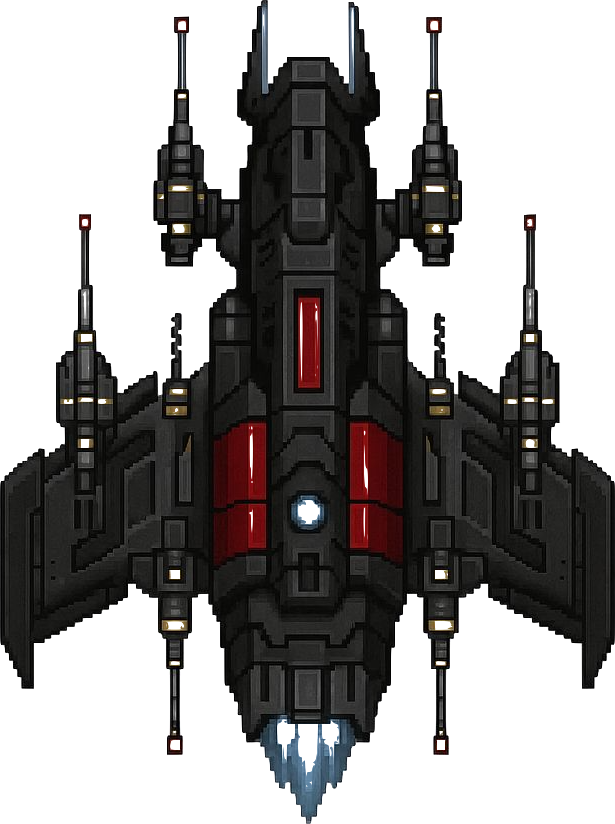
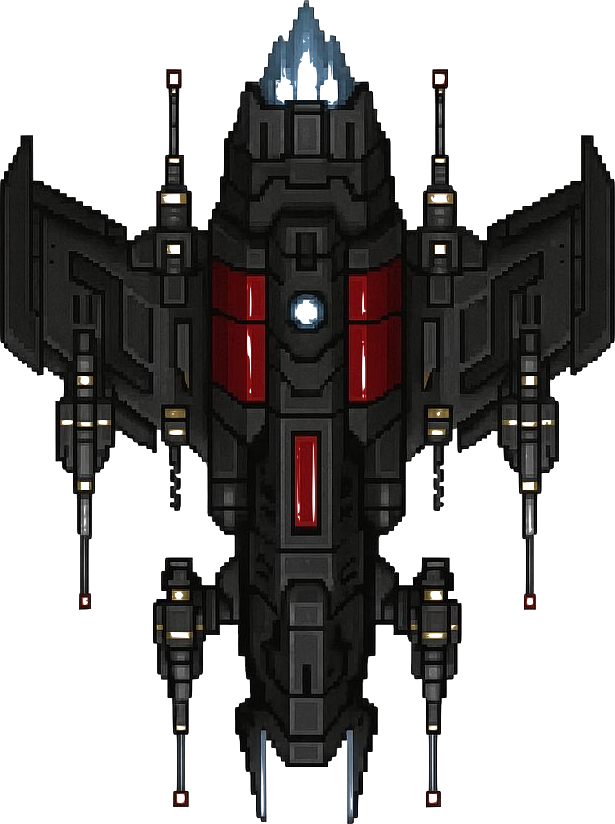
can kısmını ekledim ve resimleri güncelledim

diff --git a/oyun.c b/oyun.c
@@ -23,23 +23,25 @@ int main(void) {
     // Gemi özelliklerini ayarlama
     gemi anagemi;
     anagemi.x = 400;
-    anagemi.y = 530;
-    anagemi.genislik = 70;
-    anagemi.yukseklik = 70;
+    anagemi.y = 520;
+    anagemi.genislik = 140;
+    anagemi.yukseklik = 100;
     anagemi.hız =20;
-    anagemi.can = 3;
+    anagemi.can = 5;
     
     //görselleri yükleme
     arkaPlan = IMG_LoadTexture(çizici, "arkplan2.jpg");
-    anagemi.Gemi = IMG_LoadTexture(çizici, "anagemi.png");
+    anagemi.Gemi = IMG_LoadTexture(çizici, "anagemi1.png");
+    SDL_Texture* can_resmi = IMG_LoadTexture(çizici, "can2.png");
+    
     
 
     mermi mermiler[MERMİ];
     for (int i = 0; i < MERMİ; i++) {
         mermiler[i].atış = 0;
         mermiler[i].hız = 5;
-        mermiler[i].genislik = 10;
-        mermiler[i].yukseklik = 10;
+        mermiler[i].genislik = 12;
+        mermiler[i].yukseklik = 15;
         mermiler[i].Mermiresmi = IMG_LoadTexture(çizici, "mermi2.png");
     }
    
@@ -47,9 +49,9 @@ int main(void) {
     for (int i = 0; i < MERMİ; i++) {
         düşman_mermiler[i].atış = 0;
         düşman_mermiler[i].hız = 2;
-        düşman_mermiler[i].genislik = 10;
-        düşman_mermiler[i].yukseklik = 10;
-        düşman_mermiler[i].Mermiresmi = IMG_LoadTexture(çizici, "mermi2.png");
+        düşman_mermiler[i].genislik = 12;
+        düşman_mermiler[i].yukseklik = 15;
+        düşman_mermiler[i].Mermiresmi = IMG_LoadTexture(çizici, "düşmanmermi.png");
     }
    
     
@@ -80,7 +82,7 @@ int main(void) {
                         case SDLK_RIGHT:
                             anagemi.x += anagemi.hız;
                             if (anagemi.x > 730) {
-                                anagemi.x = 730; // Sağ sınır
+                                anagemi.x = 730; 
                             }
                             break;
                         case SDLK_SPACE:
@@ -108,6 +110,7 @@ int main(void) {
         mermiçiz(düşman_mermiler, çizici);
         gemiçiz(anagemi,çizici);
         düşmançiz(düşmanlar,çizici);
+        cançiz(çizici, can_resmi, anagemi.can);
 
         SDL_RenderPresent(çizici);
         SDL_Delay(16); // Yaklaşık 60 FPS için 16 ms gecikme
@@ -118,6 +121,7 @@ int main(void) {
     SDL_DestroyTexture(arkaPlan);
     SDL_DestroyTexture(düşmanResmi);
     SDL_DestroyTexture(anagemi.Gemi);
+    SDL_DestroyTexture(can_resmi);
     for (int i = 0; i < MERMİ; i++) {
         SDL_DestroyTexture(mermiler[i].Mermiresmi);
     }

diff --git a/fonksiyonlar.c b/fonksiyonlar.c
@@ -54,14 +54,31 @@ void düşmançiz(düşman *sayı, SDL_Renderer *çizici) {
 }
 
 
+void cançiz(SDL_Renderer *çizici,SDL_Texture *can_resmi,int kalan_can) {
+    if (can_resmi==NULL ||  kalan_can <= 0) return;
+    int can_x = 750;
+    int can_y = 20;
+    int can_genislik = 25;
+    int can_yukseklik = 25;
+    int bosluk = 28;
+    for (int i = 0; i < kalan_can; i++) {
+        SDL_Rect can_ögesi = { can_x - (i * bosluk), can_y, can_genislik, can_yukseklik };
+        SDL_RenderCopy(çizici, can_resmi, NULL, &can_ögesi);
+    }
+    
+    
+    
+    
+}
+
 
 //düşman 
 void düşmanekle(düşman **sayı, SDL_Texture* resim,int satır,int sutun) {
-    int ilk_x = 80;
-    int ilk_y = 50;
+    int ilk_x = 50;
+    int ilk_y = 40;
     int genislik = 45;
-    int yukseklik = 45;
-    int bosluk = 15;
+    int yukseklik = 40;
+    int bosluk = 7;
     for(int i=0; i<satır; i++){
         for(int j=0;j<sutun;j++){
             düşman *yeni = (düşman*)malloc(sizeof(düşman));
@@ -123,8 +140,8 @@ void düşmanateş(düşman *düşmanlar, mermi *düşman_mermiler) {
             aktif_mermi++;
         }
     }
-    if (aktif_mermi >= 10) return;
-     if (rand() % 100 != 0) return; 
+    if (aktif_mermi >= 8) return;
+    if (rand() % 160 != 0) return; 
 
     int toplam_dusman = 0;
     düşman *gecici = düşmanlar;
@@ -134,7 +151,7 @@ void düşmanateş(düşman *düşmanlar, mermi *düşman_mermiler) {
     }
 
     if (toplam_dusman == 0) return;
-    int ateş_eden_düşmanlar= 5;
+    int ateş_eden_düşmanlar= 3;
     if (toplam_dusman < ateş_eden_düşmanlar) {
         ateş_eden_düşmanlar = toplam_dusman;
     }

diff --git a/oyun.h b/oyun.h
@@ -3,8 +3,10 @@
 
 #include <SDL.h>
 #include <SDL_image.h>
+#include <SDL_ttf.h>
 #include <stdio.h>
 #include <stdlib.h>
+
 #define MERMİ 100
 
 
@@ -46,6 +48,7 @@ void düşmansil(düşman **sayı);
 void düşmanateş(düşman *düşmanlar, mermi *düşman_mermiler);
 void düşmanmermiyenile(mermi *mermiler);
 void çarpışma (mermi *mermiler,düşman **düşmanlar,mermi *düşman_mermiler, gemi *anagemi, int *oyunDevamEdiyor);
+void cançiz(SDL_Renderer *çizici,SDL_Texture *can_resmi,int kalan_can);
 
 
 #endif 
